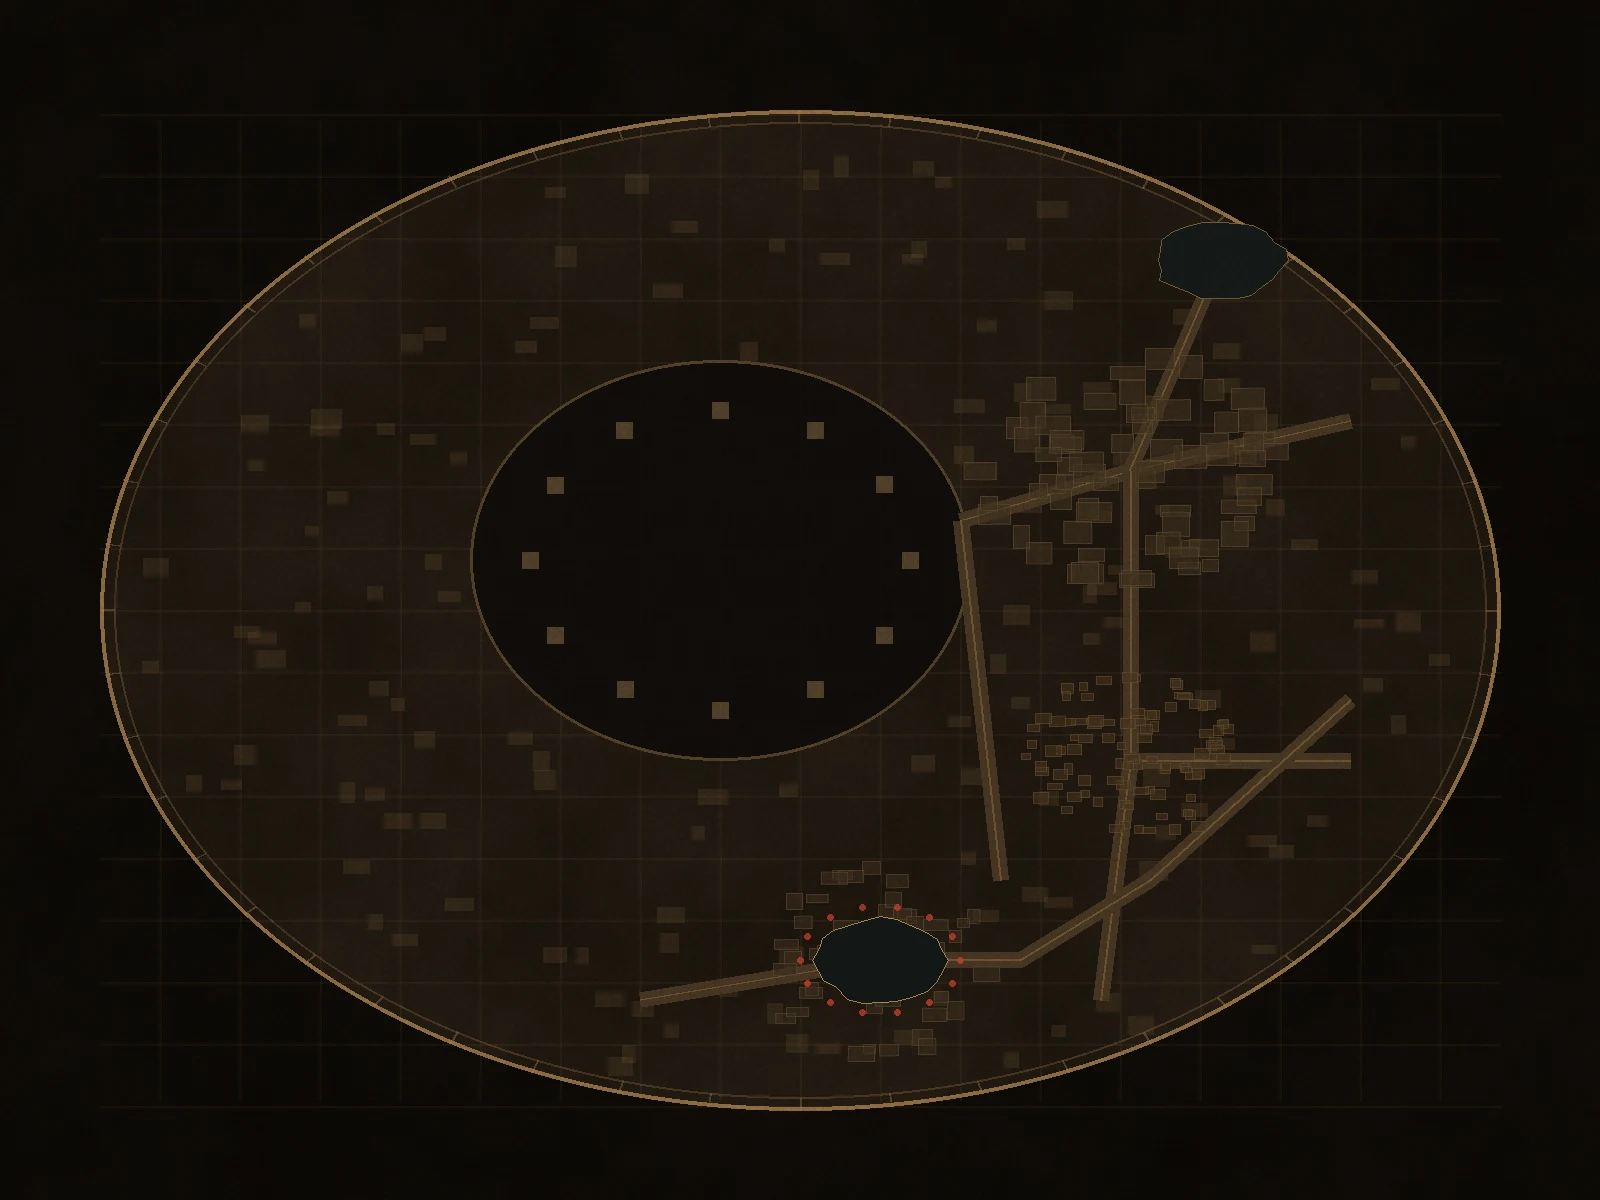
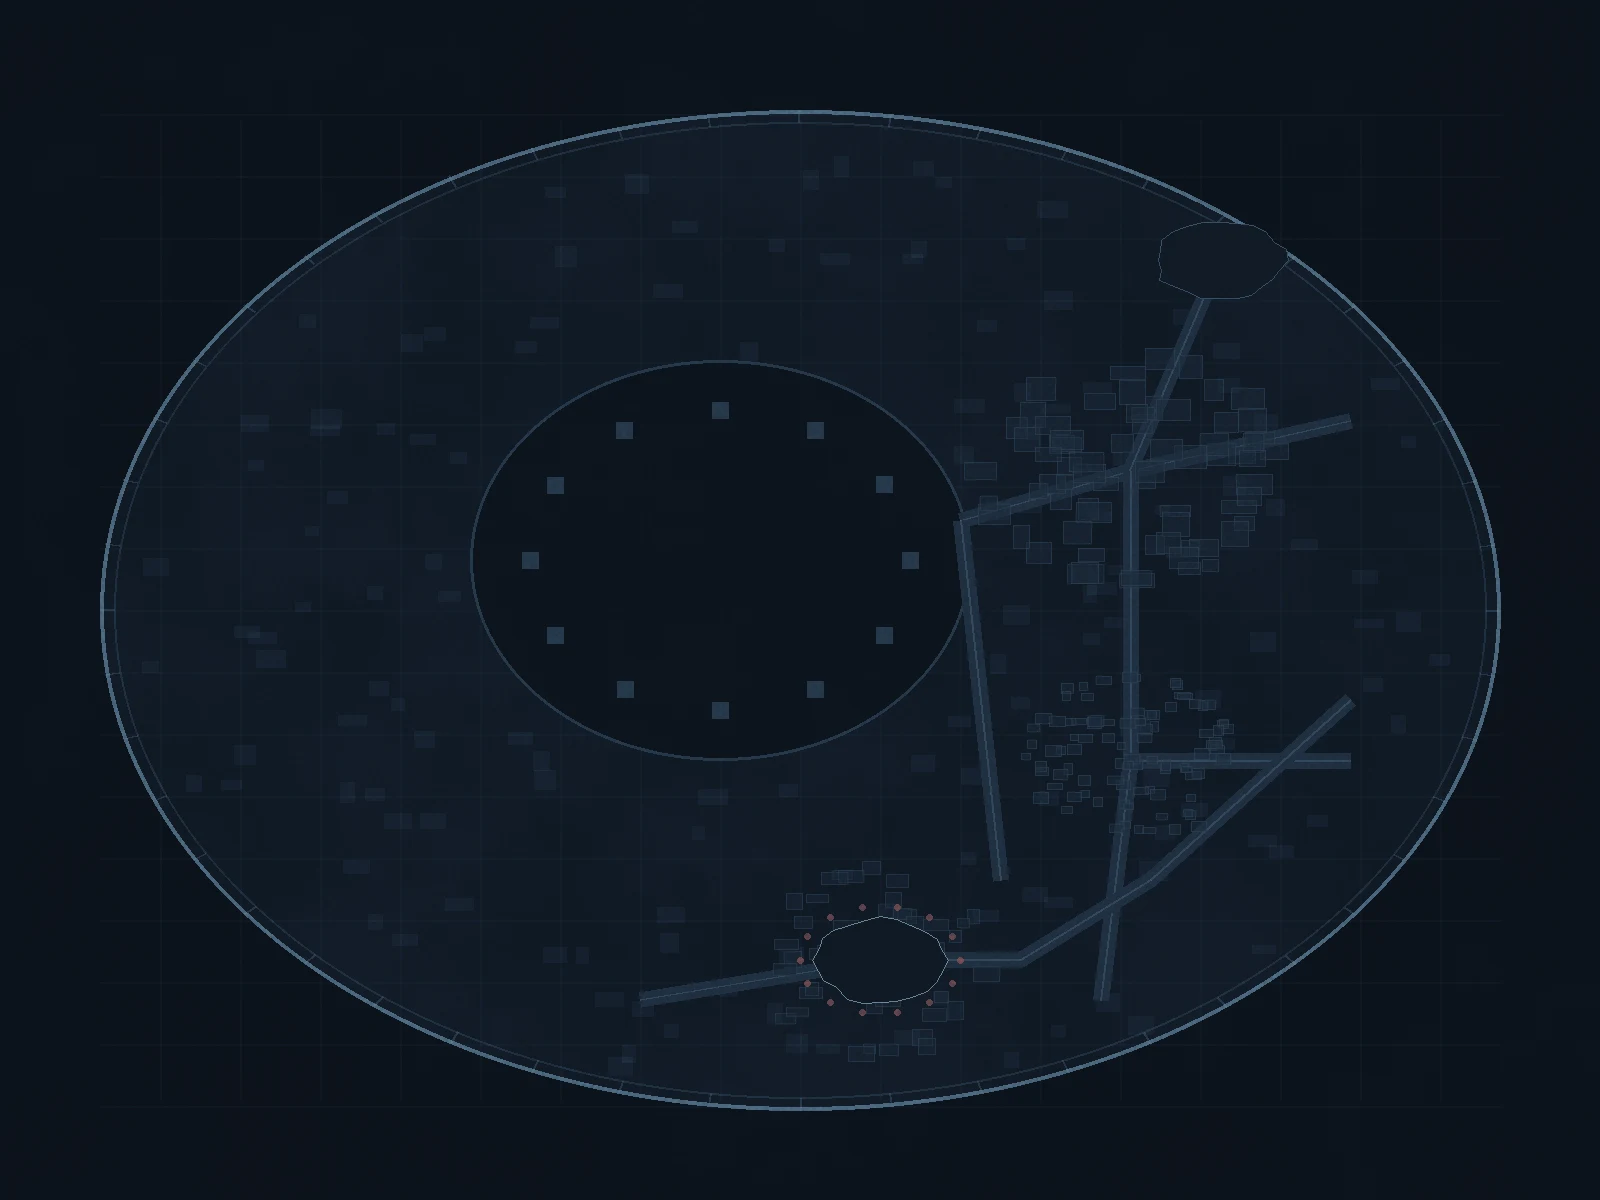
Carte Steel en palette bleu acier (option PALETTE dans tools_cartes.py), Upper-Town gris-bleu désaturée ; icônes de lieux variante bleue *_steel ; mêmes clés, tailles, cadrage et repères ; CARTES.md

diff --git a/tools_cartes.py b/tools_cartes.py
@@ -137,8 +137,18 @@ def _blocks(d, cx, cy, r, rnd, col, n=60, sz=(14, 34), street=None):
 def _blob(d, cx, cy, rx, ry, rnd, fill, outline=None, n=24):
     pts = [(cx + rx * (0.85 + 0.15 * rnd.random()) * math.cos(2 * math.pi * k / n), cy + ry * (0.85 + 0.15 * rnd.random()) * math.sin(2 * math.pi * k / n)) for k in range(n)]
     d.polygon(pts, fill=fill, outline=outline)
+PALETTE = 'bleu'  # 'bleu' (retour Valentin 29/10 : Steel en bleu acier, contraste avec le désert ambre) ou 'ambre' (3556d7d)
+RAMPE = np.array([[8, 12, 18], [22, 34, 48], [52, 76, 98], [110, 146, 170], [196, 222, 236.]])  # nuit, bleu acier, gris-bleu, cyan froid pâle
+def _bleu(a, desat=False):  # luminance -> rampe bleu acier ; les accents chauds (lanternes, feux) gardent une pointe de couleur, atténuée
+    L = a.mean(2) / 255; L = np.clip(L * 1.35, 0, 1) ** 0.85; t = L * (len(RAMPE) - 1); i = np.clip(t.astype(int), 0, len(RAMPE) - 2); f = (t - i)[..., None]
+    b = RAMPE[i] * (1 - f) + RAMPE[i + 1] * f
+    warm = np.clip((a[..., 0] - a[..., 2] - 70) / 80, 0, 1)[..., None] * (a[..., 0:1] > 150)
+    b = b * (1 - 0.6 * warm) + a * 0.6 * warm
+    if desat: G = b.mean(2, keepdims=True); b = G * 0.75 + b * 0.25 + np.array([0, 3, 8]); b = b * 0.85 + 8
+    return b
 def _finish(im, seed, desat=False):
     im = im.convert('RGB'); a = np.asarray(im).astype(float) * (0.93 + 0.12 * noise(SH, SW, [(2, 1)], seed)[..., None])
+    if PALETTE == 'bleu': return Image.fromarray(np.clip(_bleu(a, desat), 0, 255).astype('uint8'))
     if desat: L = a.mean(2, keepdims=True); a = (L * 0.85 + a * 0.15) * 0.8 + 10
     return Image.fromarray(np.clip(a, 0, 255).astype('uint8'))
 def carte_steel():
@@ -192,6 +202,9 @@ def manifest(nml):
              'note': 'même cadrage sur les 4 planches ; repères = positions proposées des lieux, sorties et liens entre couches (même x, y d une couche à l autre pour un ascenseur)'},
          'icones_lieux': {k: {'svg': 'ui/maps/icones/%s.svg' % k, 'png24': 'ui/maps/icones/%s_24.png' % k, 'png48': 'ui/maps/icones/%s_48.png' % k}
                           for k in ('lieu_decouvert', 'lieu_non_decouvert', 'joueur', 'sortie', 'lien_couches', 'verrouille')}}
+    m['icones_lieux_steel'] = {k + '_steel': {'svg': 'ui/maps/icones/%s_steel.svg' % k, 'png24': 'ui/maps/icones/%s_steel_24.png' % k, 'png48': 'ui/maps/icones/%s_steel_48.png' % k}
+                               for k in ('lieu_decouvert', 'lieu_non_decouvert', 'joueur', 'sortie', 'lien_couches', 'verrouille')}  # variante bleue (#a9d2e6) pour la carte Steel
+    m['steel']['palette'] = PALETTE
     json.dump(m, open(OUT + 'manifest.json', 'w'), ensure_ascii=False, indent=1)
 def chemin(a, b):  # A* 8 directions sans couper les angles marins (comme worldPath), coût uniforme : pour la maquette seulement
     import heapq

diff --git a/docs/assets/CARTES.md b/docs/assets/CARTES.md
@@ -11,10 +11,12 @@ Suit docs/design/INTERFACE.md §4 (branche docs/regie-interface, 8e70070). Dessi
 
 ## Steel-Megalopolis
 - 4 planches 1600 × 1200, même cadrage (sarcophage : ellipse centre 800, 610, demi-axes 700 × 500) : `steel_1_sous_ville`, `steel_2_lower_town`, `steel_3_center_town`, `steel_4_upper_town` (désaturée, verrouillée).
+- Palette bleu acier (retour Valentin 29/10, contraste avec le désert ambre) : rampe nuit, bleu acier, gris-bleu, cyan froid pâle, sans néon ; Upper-Town en gris-bleu désaturé. Option `PALETTE = 'bleu'` ou `'ambre'` dans tools_cartes.py (l ambre de 3556d7d reste reproductible).
 - Repères proposés par couche (px) dans le manifest (`reperes_px_proposition`) : lieux, sorties, liens entre couches ; un lien garde les mêmes x, y d une couche à l autre.
 
 ## Icônes de lieux
 `assets/ui/maps/icones/` : SVG + PNG 24 et 48 px, ambre `#f2b44a` sur fond sombre : `lieu_decouvert`, `lieu_non_decouvert`, `joueur`, `sortie`, `lien_couches`, `verrouille` (Upper-Town).
+Variante bleue pour la carte Steel (`#a9d2e6`, fond `#060a10`), mêmes noms suffixés `_steel` (ex. `lieu_decouvert_steel_24.png`), entrée `icones_lieux_steel` du manifest. Les ambres restent pour la carte NML.
 
 ## Décisions prises (à valider)
 - Disposition de Steel déduite des jonctions du code : douane à l ouest, Center-Town au centre (dalle surélevée), Lower-Town à l est (la Descente), Asia-Ground au sud de Lower-Town, China Lake au sud d Asia-Ground (sortie nord de China Lake vers Asia-Ground) et reliée à Lower-Town par une ruelle ; lac de Lower Street au nord-est. Sous-Ville : Les Poutres sous la douane (trappe), La Cuve à l est, monte-charge sous Center-Town, deux routes de sortie (ouest, sud).
